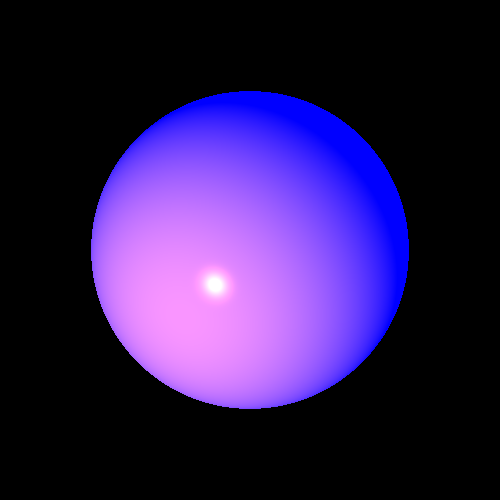
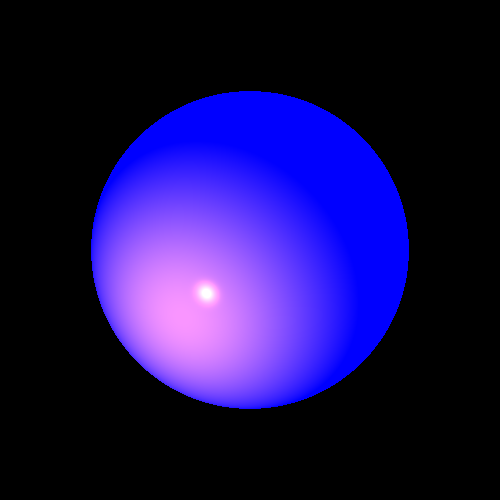
exercise 6

Changed region(s): [[0.18, 0.21, 0.78, 0.84]]

diff --git a/src/renderer/BasicRayTracer.java b/src/renderer/BasicRayTracer.java
@@ -53,29 +53,44 @@ public class BasicRayTracer extends RayTracerBase {
                 .add(calcLocalEffects(point, ray)));
     }
 
+    /**
+     * @param intersection
+     * @param ray
+     * @return color with local effect.
+     */
     private Color calcLocalEffects(GeoPoint intersection, Ray ray) {
-        Vector v = ray.getDir();
-        Vector n = intersection.geometry.getNormal(intersection.point);
-        double nv = alignZero(n.dotProduct(v));
+        Vector v = ray.getDir(); //direction of ray
+        Vector n = intersection.geometry.getNormal(intersection.point); //normal of geometry and intersection point
+        double nv = alignZero(n.dotProduct(v)); // n*v
         if (isZero(nv)) {
             return Color.BLACK;
         }
-        Material material = intersection.geometry.getMaterial();
+        Material material = intersection.geometry.getMaterial(); //  material of geometry
         int nShininess = material.nShininess;
-        double kd = material.kD;
-        double ks = material.kS;
+        double kd = material.kD; //diffuse of material
+        double ks = material.kS; //specular of material
         Color color = Color.BLACK;
         for (LightSource lightSource : _scene.lights) {
-            Vector l = lightSource.getL(intersection.point);
-            double nl = alignZero(n.dotProduct(l));
+            Vector l = lightSource.getL(intersection.point).normalized(); // get vector between light and point
+            double nl = alignZero(n.dotProduct(l)); // n*l
             if (nl * nv > 0) { // sign(nl) == sing(nv)
-                Color lightIntensity = lightSource.getIntensity(intersection.point);
-                color = color.add(calcDiffusive(kd, l, n, lightIntensity), calcSpecular(ks, l, n, v, nShininess, lightIntensity));;
+                Color lightIntensity = lightSource.getIntensity(intersection.point); // intensity of the light
+                // add all the local effect to the color
+                color = color.add(calcDiffusive(kd, l, n, lightIntensity), calcSpecular(ks, l, n, v, nShininess, lightIntensity));
             }
         }
         return color;
     }
 
+    /**
+     * @param ks
+     * @param l
+     * @param n
+     * @param v
+     * @param nShininess
+     * @param lightIntensity
+     * @return Specular effect
+     */
     private Color calcSpecular(double ks, Vector l, Vector n, Vector v, int nShininess, Color lightIntensity) {
         Vector r = l.subtract(n.scale(2 * (l.dotProduct(n)))).normalized();
         double minusVr = v.scale(-1).dotProduct(r);
@@ -83,6 +98,13 @@ public class BasicRayTracer extends RayTracerBase {
 
     }
 
+    /**
+     * @param kd
+     * @param l
+     * @param n
+     * @param lightIntensity
+     * @return diffuse effect
+     */
     private Color calcDiffusive(double kd, Vector l, Vector n, Color lightIntensity) {
         double factor = kd * Math.abs(l.dotProduct(n));
         return lightIntensity.scale(factor);

diff --git a/src/elements/PointLight.java b/src/elements/PointLight.java
@@ -29,14 +29,14 @@ public class PointLight extends Light implements LightSource{
         double denominator, distance;
         distance = position.distance(p);
         denominator = kC + kL*distance + kQ*distance*distance;
-        return intensity.reduce(denominator);
+        return intensity.scale(1/denominator);
     }
 
     @Override
     public Vector getL(Point3D p) {
         if(p.equals(position))
             return null;
-        return position.subtract(p).normalized();
+        return p.subtract(position).normalized();
     }
 
     public PointLight setKc(double kC) {

diff --git a/src/elements/SpotLight.java b/src/elements/SpotLight.java
@@ -28,8 +28,8 @@ public class SpotLight extends PointLight {
         return Color.BLACK;
     }
 
-    @Override
-    public Vector getL(Point3D p) {
-        return direction.normalized();
-    }
+    //@Override
+    //public Vector getL(Point3D p) {
+    //    return direction.normalized();
+    //}
 }

diff --git a/src/elements/DirectionalLight.java b/src/elements/DirectionalLight.java
@@ -18,7 +18,7 @@ public class DirectionalLight extends Light implements LightSource {
      */
     public DirectionalLight(Color intensity, Vector direction) {
         super(intensity);
-        this.direction = direction;
+        this.direction = direction.normalized();
     }
 
     @Override

diff --git a/src/elements/LightSource.java b/src/elements/LightSource.java
@@ -16,7 +16,7 @@ public interface LightSource {
 
     /**
      * @param p
-     * @return the vector of light
+     * @return the vector of light, normalized
      */
     public Vector getL(Point3D p);
 
